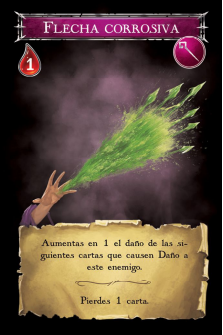
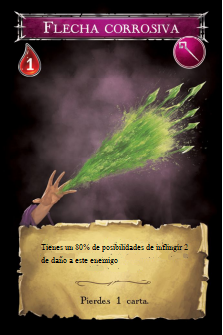
-Bugs de lluvia de flechas, torrente de luz y bola de fuego arreglados -Habilidades moradas terminadas

Changed region(s): [[0.1614, 0.7164, 0.861, 0.8358]]

diff --git a/src/main/java/org/springframework/samples/notimeforheroes/cards/skillcard/SkillCardsService.java b/src/main/java/org/springframework/samples/notimeforheroes/cards/skillcard/SkillCardsService.java
@@ -131,8 +131,7 @@ public class SkillCardsService {
 
 	// ----------------------------------------------------------------------------------------//
 	// ----------------------------------------------------------------------------------------//
-	// -------------------------LOGICA DE
-	// CARTAS-----------------------------------------------//
+	// -------------------------LOGICA DE CARTAS-----------------------------------------------//
 	// ----------------------------------------------------------------------------------------//
 	// ----------------------------------------------------------------------------------------//
 
@@ -156,41 +155,12 @@ public class SkillCardsService {
 	}
 
 	@Transactional
-	public void useLluviaDeFlechas(List<EnemyCard> enemiesTargetedList, Game game, User user, SkillCard skillCard) {
+	public void useLluviaDeFlechas(List<EnemyCard> enemiesTargetedList, Game game, User user, SkillCard skillCard) throws Exception {
 		for (EnemyCard enemyCard : enemiesTargetedList) {
-			try {
-				gamesEnemiesService.damageEnemy(game, enemyCard, user, 2);
-			} catch (Exception e) {
-				e.printStackTrace();
-			}
+			gamesEnemiesService.damageEnemy(game, enemyCard, user, 2);
 		}
-
-		Collection<GameUser> players = gameUserService.findAllByGame(game);
-		players.remove(gameUserService.findByGameAndUser(game, user).get());
-		GameUser playerWithLessWounds = players.stream().sorted(new Comparator<GameUser>() {
-			@Override
-			public int compare(GameUser p1, GameUser p2) {
-				Integer heridasP1 = p1.getHeroe().getMaxHealth() - p1.getHeroeHealth();
-				Integer heridasP2 = p2.getHeroe().getMaxHealth() - p2.getHeroeHealth();
-				return heridasP1 < heridasP2 ? -1 : heridasP1 == heridasP2 ? 0 : 1;
-			}
-		}).collect(Collectors.toList()).get(0);
-
-		System.out.println("Cartas en el mazo del jugador "
-				+ userService.findByGameUser(playerWithLessWounds).getUsername() + ": "
-				+ findAllOnDeckSkillsByGameAndUser(game, userService.findByGameUser(playerWithLessWounds)).size());
-		System.out.println("Cartas descartadas del jugador "
-				+ userService.findByGameUser(playerWithLessWounds).getUsername() + ": "
-				+ findAllOnDiscardedSkillsByGameAndUser(game, userService.findByGameUser(playerWithLessWounds)).size());
-
-		gamesUsersSkillCardsService.discardCards(game, userService.findByGameUser(playerWithLessWounds), 2);
-
-		System.out.println("Cartas en el mazo del jugador "
-				+ userService.findByGameUser(playerWithLessWounds).getUsername() + ": "
-				+ findAllOnDeckSkillsByGameAndUser(game, userService.findByGameUser(playerWithLessWounds)).size());
-		System.out.println("Cartas descartadas del jugador "
-				+ userService.findByGameUser(playerWithLessWounds).getUsername() + ": "
-				+ findAllOnDiscardedSkillsByGameAndUser(game, userService.findByGameUser(playerWithLessWounds)).size());
+		GameUser playerWithLessWounds = gameUserService.findAllByGameOrderByHealth(game).get(0);
+		gamesUsersSkillCardsService.discardCards(game, userService.findByGameUser(playerWithLessWounds), 2);		
 	}
 
 	public void useRecogerFlechas(Game game, User user, SkillCard skillCard) {
@@ -251,11 +221,60 @@ public class SkillCardsService {
 				}
 			}
 		}
-
 		gamesUsersSkillCardsService.drawCards(game, user, 1);
 		gamesUsersSkillCardsService.gainGlory(game, user, 1);
-
-
     }
+
+	public void useAuraProtectora(Game game, User user, SkillCard skillCard){
+		gamesUsersSkillCardsService.defendDamage(game, user, 100);
+		gamesUsersSkillCardsService.discardCards(game, user, enemyCardService.findOnTableEnemiesByGame(game).size());
+	}
+
+	public void useBolaDeFuego(Game game, User user, SkillCard skillCard) throws Exception {
+
+		List<EnemyCard> enemiesOnTable = enemyCardService.findOnTableEnemiesByGame(game);
+		for (EnemyCard e : enemiesOnTable) {
+			gamesEnemiesService.damageEnemy(game, e, user, 2);
+		}
+
+		game.getUsers().stream().filter(otherUser -> !otherUser.equals(user))
+								.forEach(otherUser -> gamesUsersSkillCardsService.discardCards(game, otherUser, 1));
+
+	}
+
+    public void useDisparoGelido(EnemyCard enemyCard, Game game, User user, SkillCard skillCard) throws Exception {
+		GameUser player = gameUserService.findByGameAndUser(game, user).get();
+		gamesUsersSkillCardsService.drawCards(game, user, 1);
+		if(!player.getDamageShielded().equals(gamesEnemiesService.findByGameAndEnemy(game, enemyCard).get().getHealth())){
+			gamesUsersSkillCardsService.defendDamage(game, user, gamesEnemiesService.findByGameAndEnemy(game, enemyCard).get().getHealth());
+		}
+		gamesEnemiesService.damageEnemy(game, enemyCard, user, 1);
+	}
+
+	public void useFlechaCorrosiva(EnemyCard enemyCard, Game game, User user, SkillCard skillCard) throws Exception {
+		Integer numeroAleatorio = new Random().nextInt(5);
+		gamesEnemiesService.damageEnemy(game, enemyCard, user, numeroAleatorio.equals(0) ? 1 : 2);
+		gamesUsersSkillCardsService.discardCards(game, user, 1);
+	}
+
+    public void useGolpeDeBaston(EnemyCard enemyCard, Game game, User user, SkillCard skillCard) throws Exception {
+		//50% de posibilidades de hacer 2 de daño.
+		gamesEnemiesService.damageEnemy(game, enemyCard, user, Integer.valueOf(new Random().nextInt(2)).equals(0) ? 1 : 2);
+    }
+
+	public void useOrbeCurativo(Game game, User user, SkillCard skillCard) throws Exception{
+		for(User userInGame : game.getUsers()){
+			gamesUsersSkillCardsService.recoverCards(game, userInGame, 2);
+		}
+		gamesUsersSkillCardsService.gainLife(game, user, 1);
+	}
+
+	public void useTorrenteDeLuz(EnemyCard enemyCard, Game game, User user, SkillCard skillCard) throws Exception {
+		gamesEnemiesService.damageEnemy(game, enemyCard, user, 2);
+		gamesUsersSkillCardsService.gainGlory(game, user, 1);
+			
+		game.getUsers().stream().filter(otherUser -> !otherUser.equals(user))
+								.forEach(otherUser -> gamesUsersSkillCardsService.recoverCards(game, otherUser, 2));		
+	}
 
 }

diff --git a/src/main/java/org/springframework/samples/notimeforheroes/cards/skillcard/gamesUsersSkillcards/GamesUsersSkillCardsService.java b/src/main/java/org/springframework/samples/notimeforheroes/cards/skillcard/gamesUsersSkillcards/GamesUsersSkillCardsService.java
@@ -46,7 +46,9 @@ public class GamesUsersSkillCardsService {
     }
 
     public Optional<GamesUsersSkillCards> findByGameUserSkill(Game game, User user, SkillCard skillCard){
-        return gamesUsersSkillCardsRepository.findByGameUserSkill(gamesUsersService.findByGameAndUser(game, user).get(), skillCard);
+
+        Optional<GameUser> player = gamesUsersService.findByGameAndUser(game, user);
+        return gamesUsersSkillCardsRepository.findByGameUserSkill(player.orElse(null), skillCard);
     }
 
     public void saveGameUserSkillCard(@Valid GamesUsersSkillCards gameUserSkillCard){
@@ -60,9 +62,12 @@ public class GamesUsersSkillCardsService {
 
     @Transactional
     public void discardSkill(Game game, User user, SkillCard skillCard) {   //Descarta la skillcard
-        GamesUsersSkillCards gamesUsersSkillCards = this.findByGameUserSkill(game, user, skillCard).get();
-		gamesUsersSkillCards.setSkillState(SkillState.DISCARD);
-		this.saveGameUserSkillCard(gamesUsersSkillCards);
+        Optional<GamesUsersSkillCards> gamesUsersSkillCardsOpt = this.findByGameUserSkill(game, user, skillCard);
+        if(gamesUsersSkillCardsOpt.isPresent()){
+            GamesUsersSkillCards gamesUsersSkillCards = gamesUsersSkillCardsOpt.get();
+            gamesUsersSkillCards.setSkillState(SkillState.DISCARD);
+		    this.saveGameUserSkillCard(gamesUsersSkillCards);
+        }
     }
 
     public void drawCards(Game game, User user, Integer cantidad) {
@@ -97,7 +102,7 @@ public class GamesUsersSkillCardsService {
         try {
             List<SkillCard> onDeckCards = skillCardsService.findAllOnDeckSkillsByGameAndUser(game, user);
             Integer cartasRestantes = onDeckCards.size();
-        if(cartasRestantes < cantidad){
+        if(cartasRestantes <= cantidad){
 
             System.out.println("[DISCARD] El jugador " + user.getUsername() + " pierde una vida!");
 
@@ -140,13 +145,16 @@ public class GamesUsersSkillCardsService {
     }
 
     public void recoverCards(Game game, User user, Integer cantidad) {
-        List<SkillCard> onDiscardDeckCards = skillCardsService.findAllOnDiscardedSkillsByGameAndUser(game, user);
-        if(onDiscardDeckCards.size()<cantidad) cantidad=onDiscardDeckCards.size();
+        if(gamesUsersService.findByGameAndUser(game, user).get().getHeroeHealth() > 0){
+            List<SkillCard> onDiscardDeckCards = skillCardsService.findAllOnDiscardedSkillsByGameAndUser(game, user);
+            if(onDiscardDeckCards.size()<cantidad) cantidad=onDiscardDeckCards.size();
 
-        for (int i = 0; i < cantidad; i++) {
-            GamesUsersSkillCards gusc= findByGameUserSkill(game, user, onDiscardDeckCards.get(i)).get();
-            gusc.setSkillState(SkillState.ONDECK);
-            saveGameUserSkillCard(gusc);
+            for (int i = 0; i < cantidad; i++) {
+                System.out.println("[RECOVERCARDS] El jugador " + user.getUsername() + " ha recuperado la carta " + onDiscardDeckCards.get(i).getName());
+                GamesUsersSkillCards gusc= findByGameUserSkill(game, user, onDiscardDeckCards.get(i)).get();
+                gusc.setSkillState(SkillState.ONDECK);
+                saveGameUserSkillCard(gusc);
+            }
         }
     }
 
@@ -225,10 +233,5 @@ public class GamesUsersSkillCardsService {
         game.setGameState(GameState.DEFENDING);
 		gameService.updateGame(game);
     }
-
-    
-
-    
-
 }
 

diff --git a/src/main/java/org/springframework/samples/notimeforheroes/game/GameService.java b/src/main/java/org/springframework/samples/notimeforheroes/game/GameService.java
@@ -289,6 +289,7 @@ public class GameService {
 			gameUser.setGold(0);
 			gameUser.setHasEscapeToken(true);
 			gameUser.setHeroeHealth(heroeCard.getMaxHealth());
+			gameUser.setDamageShielded(0);
 			gameUserService.saveGameUser(gameUser);
 
 			// Baraja las cartas de skill y a cuatro al azar las pone como ONHAND (por
@@ -406,7 +407,6 @@ public class GameService {
 				case 13:case 14:
 					skillCardsService.useRecogerFlechas(game, user, skillCard);
 					break;
-
 				case 20: case 21:
 					skillCardsService.useEscudo(enemiesTargetedList.get(0), game, user, skillCard);
 					break;
@@ -419,13 +419,40 @@ public class GameService {
 				case 29:
 					skillCardsService.useVozDeAliento(game, user, skillCard);
 					break;
+				case 30:
+					skillCardsService.useAuraProtectora(game, user, skillCard);
+					break;
+				case 31:
+					skillCardsService.useBolaDeFuego(game, user, skillCard);
+					break;
+				case 32: case 33:
+					skillCardsService.useDisparoGelido(enemiesTargetedList.get(0), game, user, skillCard);
+					break;
+				case 34:
+					skillCardsService.useFlechaCorrosiva(enemiesTargetedList.get(0), game, user, skillCard);
+					break;
+				case 35: case 36: case 37: case 38: 
+					skillCardsService.useGolpeDeBaston(enemiesTargetedList.get(0), game, user, skillCard);
+					break;
+				case 39:
+					skillCardsService.useOrbeCurativo(game, user, skillCard);
+					break;
+				case 44:
+					skillCardsService.useTorrenteDeLuz(enemiesTargetedList.get(0), game, user, skillCard);
+					break;
 			
 				default://Si no requiere lógica adicional
 					executeActions(game, user, skillCard.getActions(), enemiesTargetedList);
 					break;
 			}
 			// pone la skill en el mazo de descarte
-			gamesUsersSkillCardsService.discardSkill(game, user, skillCard);
+			try {
+				gamesUsersSkillCardsService.discardSkill(game, user, skillCard);
+			} catch (Exception e) {
+				System.err.println("--Error descartando carta");
+				e.printStackTrace();
+			}
+			
 		} else {
 			throw new CardNotSelectedException();
 		}

diff --git a/src/main/java/org/springframework/samples/notimeforheroes/game/gamesUsers/GameUserRepository.java b/src/main/java/org/springframework/samples/notimeforheroes/game/gamesUsers/GameUserRepository.java
@@ -16,15 +16,17 @@ public interface GameUserRepository extends CrudRepository<GameUser, Integer> {
     @Query(nativeQuery = true, value = "SELECT * FROM games_users gu WHERE gu.fk_game=?1")
     List<GameUser> findAllByGame(Game game);
 
+    @Query(nativeQuery = true, value = "SELECT * FROM Games_Users gu WHERE gu.fk_game = ?1 ORDER BY heroe_health")
+    List<GameUser> findAllByGameOrderByHealth(Game game);
+
     @Query(nativeQuery = true, value = "SELECT * FROM games_users gu WHERE gu.fk_game=?1 AND gu.fk_user=?2")
-    Optional<GameUser> findByGameAndUser(Integer gameId, Integer userId);
+    Optional<GameUser> findByGameAndUser(Game game, User user);
 
     @Query(nativeQuery = true, value = "SELECT heroe_id FROM games_users gu WHERE gu.fk_game=?1 AND gu.fk_user=?2")
     Optional<Integer> findHeroeOfGameUser(Integer gameId, Integer userId);
     
     @Query(nativeQuery = true, value = "SELECT items_id FROM GAMES_USERS_ITEMS gui JOIN GAMES_USERS gu WHERE gui.game_user_id = gu.id AND gu.fk_game=?1 AND gu.fk_user=?2")
     Optional<List<Integer>> findItemsOfGameUser(Integer gameId, Integer userId);
-
 
     @Query(nativeQuery = true, value = "SELECT DISTINCT gu.gold FROM games_users gu JOIN games g WHERE g.is_in_progress=FALSE AND gu.fk_user = ?1 AND gu.gold IS NOT NULL")
     Collection<Integer> findAllGoldByUser(User user);
@@ -34,4 +36,6 @@ public interface GameUserRepository extends CrudRepository<GameUser, Integer> {
 
     @Query(nativeQuery = true, value = "SELECT gu.heroe_id FROM games_users gu WHERE gu.fk_user = ?1 AND gu.heroe_id IS NOT NULL")
     Collection<Integer> getAllHeroesByUser(User user);
+
+    
 }

diff --git a/src/main/java/org/springframework/samples/notimeforheroes/cards/enemycard/EnemyCardRepository.java b/src/main/java/org/springframework/samples/notimeforheroes/cards/enemycard/EnemyCardRepository.java
@@ -3,6 +3,7 @@ package org.springframework.samples.notimeforheroes.cards.enemycard;
 
 	
 import java.util.Collection;
+import java.util.List;
 import java.util.Optional;
 
 import org.springframework.data.domain.Page;
@@ -24,7 +25,7 @@ public interface EnemyCardRepository extends CrudRepository<EnemyCard, Integer>{
 		Collection<EnemyCard> findAllByIsBoss(Boolean isBoss);
 
 		@Query(nativeQuery = true, value = "SELECT e.* FROM Enemies e JOIN Games_Enemies ge WHERE e.id = ge.fk_enemy AND ge.fk_game = ?1 AND ge.enemy_state = 0;")
-		Collection<EnemyCard> findOnTableEnemiesByGame(Game game);
+		List<EnemyCard> findOnTableEnemiesByGame(Game game);
 
 		@Query(nativeQuery = true, value = "SELECT COUNT(e.*) FROM Enemies e JOIN Games_Enemies ge WHERE e.id = ge.fk_enemy AND ge.fk_game = ?1 AND ge.enemy_state = 0;")
 		Integer countOnTableEnemiesByGame(Game game);

diff --git a/src/main/java/org/springframework/samples/notimeforheroes/game/gamesUsers/GameUserService.java b/src/main/java/org/springframework/samples/notimeforheroes/game/gamesUsers/GameUserService.java
@@ -54,8 +54,18 @@ public class GameUserService {
 		return gameUserRepository.findAllByGame(game);
 	}
 
+	public List<GameUser> findAllByGameOrderByHealth(Game game){
+		return gameUserRepository.findAllByGameOrderByHealth(game);
+	}
+
 	public Optional<GameUser> findByGameAndUser(Game game, User user){
-		return gameUserRepository.findByGameAndUser(game.getId(), user.getId());
+		try {
+			Optional<GameUser> res = gameUserRepository.findByGameAndUser(game, user);
+			return res;
+		} catch (Exception e) {
+			e.printStackTrace();
+		}
+		return null;
 	}
 
 	public Optional<HeroeCard> findHeroeOfGameUser(Game game, User user){

diff --git a/src/main/java/org/springframework/samples/notimeforheroes/user/UserRepository.java b/src/main/java/org/springframework/samples/notimeforheroes/user/UserRepository.java
@@ -24,6 +24,6 @@ public interface UserRepository extends CrudRepository<User, Integer>{
 	@Query(nativeQuery = true, value = "SELECT u.* FROM Users u JOIN games_users gu WHERE gu.fk_user = u.id AND gu.fk_game = ?1 AND gu.heroe_id IS NOT NULL")
     Collection<User> findAllInGameWithHeroeSelected(Game game);
 
-	@Query(nativeQuery = true, value = "SELECT u FROM Users u JOIN games_users gu WHERE gu.fk_user= u.id AND gu.id = ?1")
+	@Query(nativeQuery = true, value = "SELECT u.* FROM Users u JOIN games_users gu WHERE gu.fk_user= u.id AND gu.id = ?1")
     Optional<User> findByGameUser(GameUser gameUser);
 }

diff --git a/src/main/java/org/springframework/samples/notimeforheroes/cards/enemycard/EnemyCardService.java b/src/main/java/org/springframework/samples/notimeforheroes/cards/enemycard/EnemyCardService.java
@@ -2,6 +2,7 @@ package org.springframework.samples.notimeforheroes.cards.enemycard;
 
 import java.util.ArrayList;
 import java.util.Collection;
+import java.util.List;
 import java.util.Optional;
 
 import javax.transaction.Transactional;
@@ -46,7 +47,7 @@ public class EnemyCardService {
 	}
 
 	//
-	public Collection<EnemyCard> findOnTableEnemiesByGame(Game game) {
+	public List<EnemyCard> findOnTableEnemiesByGame(Game game) {
 		return enemyCardRepo.findOnTableEnemiesByGame(game);
 	}
 

diff --git a/src/main/java/org/springframework/samples/notimeforheroes/game/GameController.java b/src/main/java/org/springframework/samples/notimeforheroes/game/GameController.java
@@ -271,8 +271,8 @@ public class GameController {
 			model.addAttribute("message", "Esa carta no puede aplicarse a ese número de enemigos");
 			return gamePlaying(model, gameId);
 		} catch (Exception e) {
-			e.printStackTrace();
 			model.addAttribute("message", "Error desconocido al usar carta");
+			//e.printStackTrace();
 			return gamePlaying(model, gameId);
 		}
 
